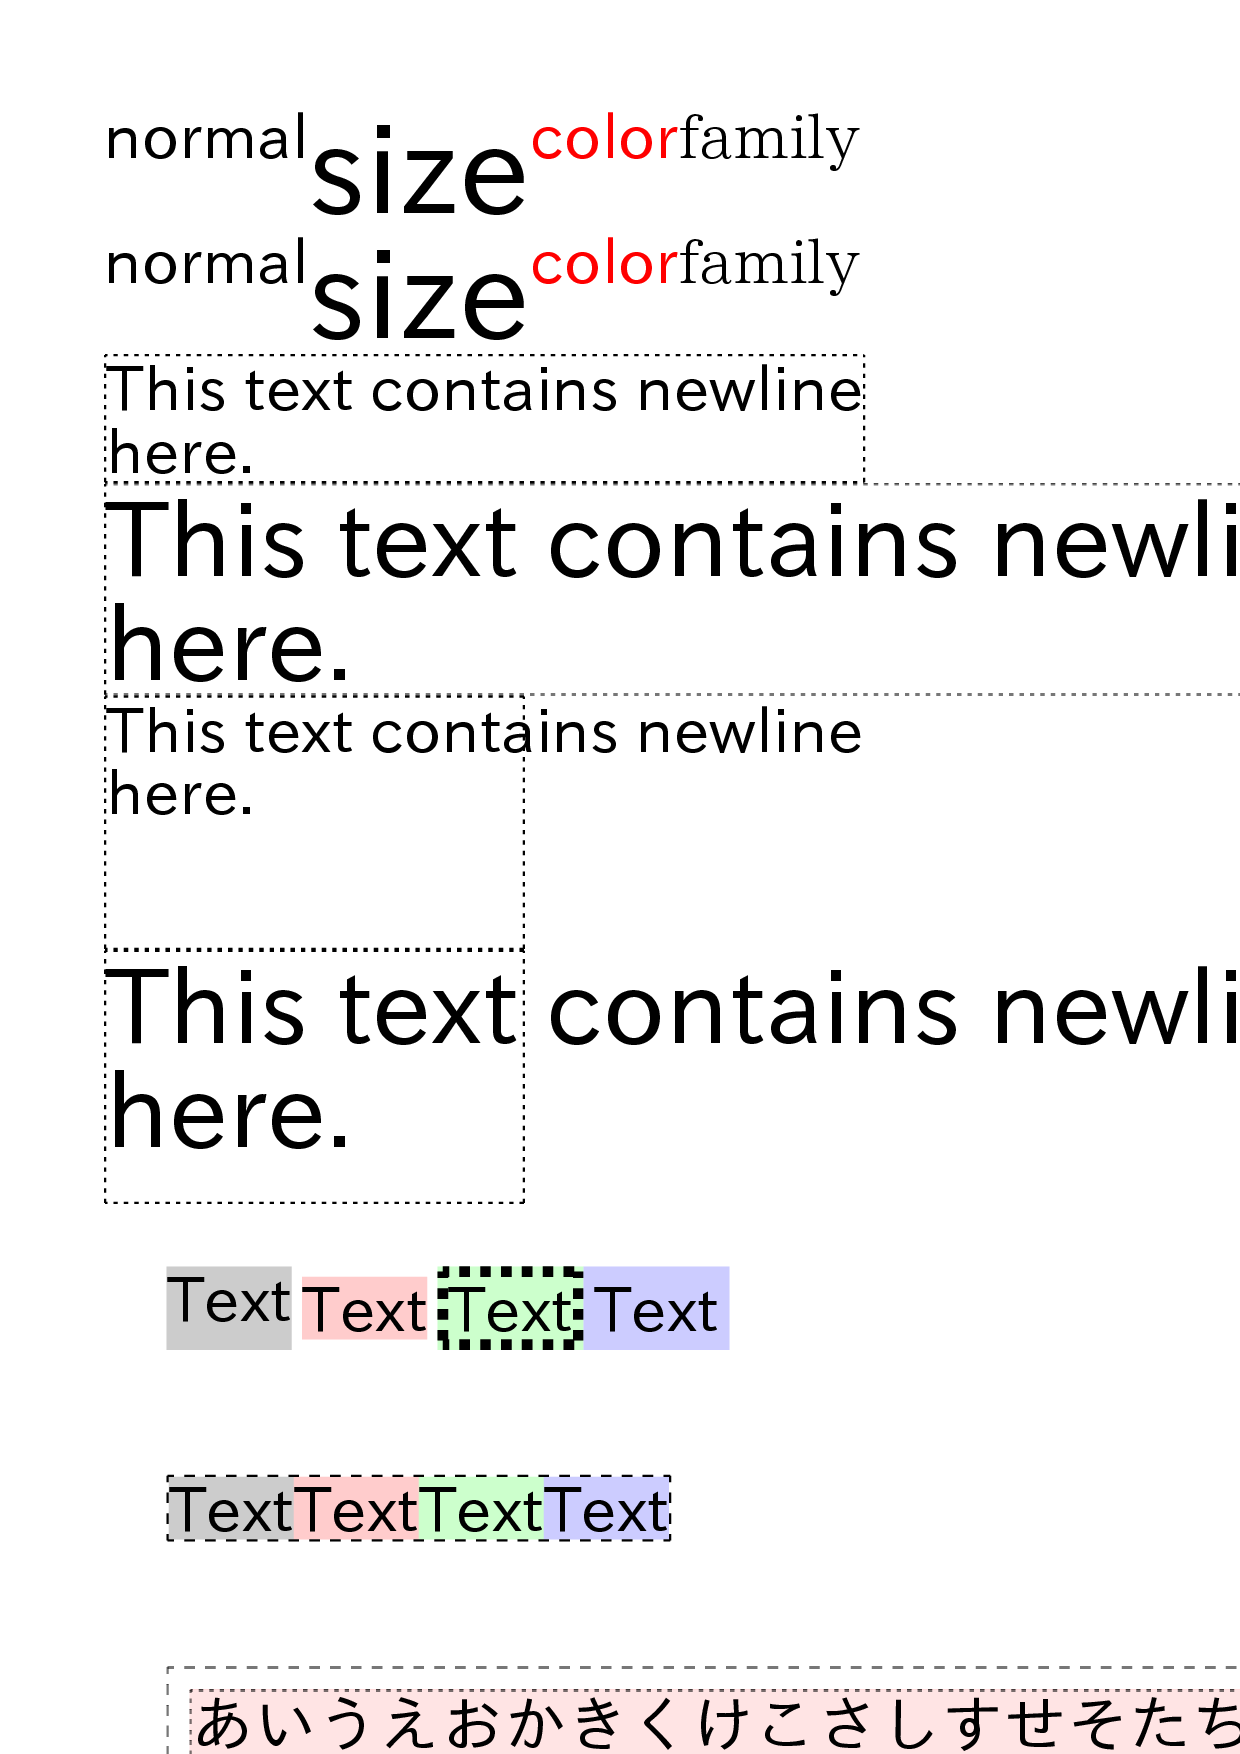
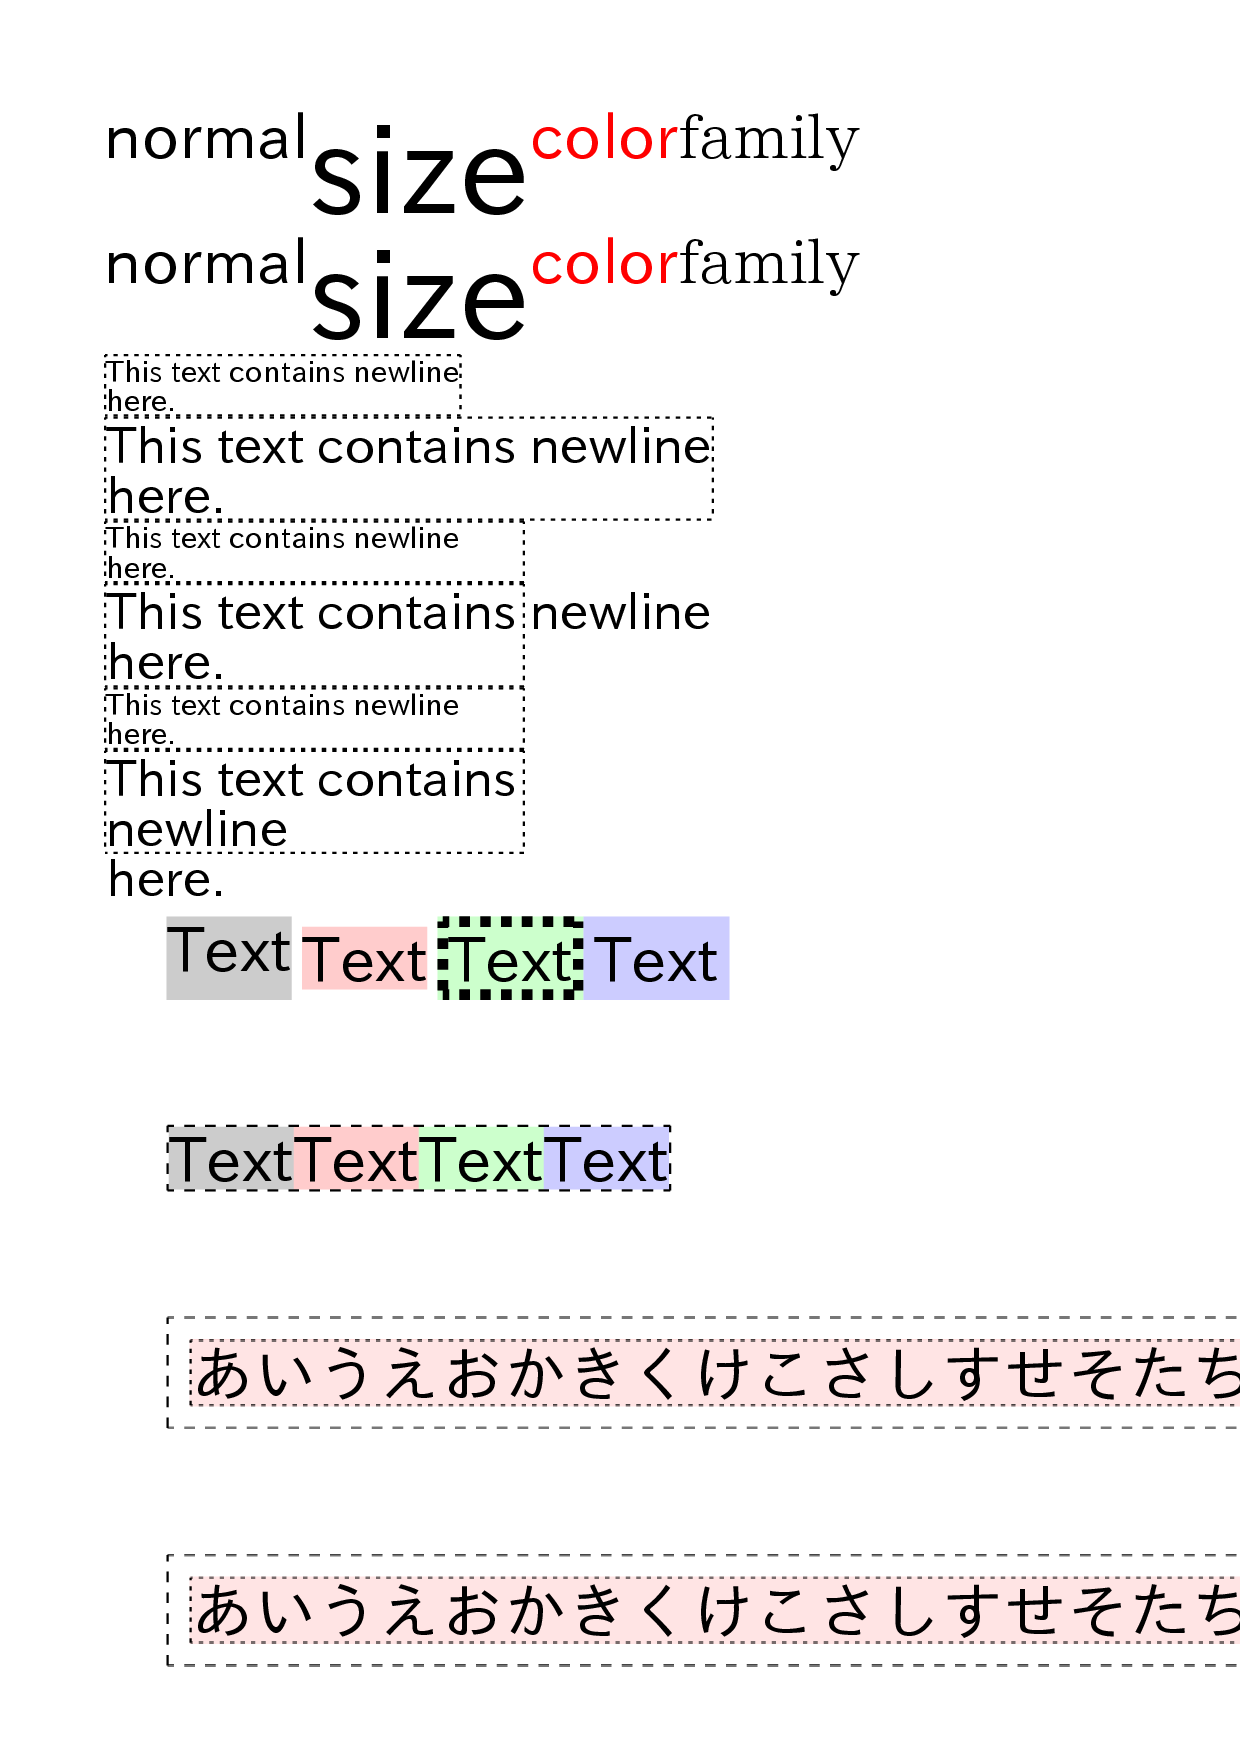
テキスト自身のサイズ指定に応じた折返し

diff --git a/draw_test.go b/draw_test.go
@@ -96,18 +96,27 @@ var cases = map[string]*Box{
 			),
 		),
 		// text with break
+		// サイズ未指定
 		NewRowBox(
-			NewText(NewRun("This text contains newline\nhere.").SetFontSize(30)),
+			NewText(NewRun("This text contains newline\nhere.").SetFontSize(14)),
 		).SetBorder(UniformedBorder(color.Black, BorderStyleDotted, 1)),
 		NewRowBox(
-			NewText(NewRun("This text contains newline\nhere.").SetFontSize(50)),
+			NewText(NewRun("This text contains newline\nhere.").SetFontSize(24)),
 		).SetBorder(UniformedBorder(color.Black, BorderStyleDotted, 1)),
+		// 親がサイズ指定
 		NewRowBox(
-			NewText(NewRun("This text contains newline\nhere.").SetFontSize(30)),
-		).SetBorder(UniformedBorder(color.Black, BorderStyleDotted, 1)).SetSize(200, 120),
+			NewText(NewRun("This text contains newline\nhere.").SetFontSize(14)),
+		).SetBorder(UniformedBorder(color.Black, BorderStyleDotted, 1)).SetWidth(200),
 		NewRowBox(
-			NewText(NewRun("This text contains newline\nhere.").SetFontSize(50)),
-		).SetBorder(UniformedBorder(color.Black, BorderStyleDotted, 1)).SetSize(200, 120),
+			NewText(NewRun("This text contains newline\nhere.").SetFontSize(24)),
+		).SetBorder(UniformedBorder(color.Black, BorderStyleDotted, 1)).SetWidth(200),
+		// 自身がサイズ指定
+		NewRowBox(
+			NewText(NewRun("This text contains newline\nhere.").SetFontSize(14)).SetBorder(UniformedBorder(color.Black, BorderStyleDotted, 1)).SetWidth(200),
+		),
+		NewRowBox(
+			NewText(NewRun("This text contains newline\nhere.").SetFontSize(24)).SetBorder(UniformedBorder(color.Black, BorderStyleDotted, 1)).SetWidth(200),
+		),
 		NewRowBox(
 			NewText(NewRun("Text").SetFontSize(30)).SetBackgroundColor(color.RGBA{R: 0xCC, G: 0xCC, B: 0xCC, A: 0xFF}),
 			NewText(NewRun("Text").SetFontSize(30)).SetBackgroundColor(color.RGBA{R: 0xFF, G: 0xCC, B: 0xCC, A: 0xFF}).SetMargin(5),

diff --git a/item.text.go b/item.text.go
@@ -105,7 +105,7 @@ func (r *noBrRun) splitWithWidth(pdf *gopdf.GoPdf, widthLimit float64) (*noBrRun
 		return nil, nil, err
 	}
 
-	log.Println("🍣", index, index == len(runes), widthLimit, r.Text)
+	log.Printf("🍣 only=%v, idx=%v, wl=%v, t=%q\n", index == len(runes), index, widthLimit, r.Text)
 	if index == len(runes) {
 		return r, nil, nil
 	} else {
@@ -198,10 +198,10 @@ func (t *Text) drawContent(pdf *gopdf.GoPdf, r rect, depth int) (err error) {
 	return nil
 }
 
-func (t *Text) getContentSize(pdf *gopdf.GoPdf, widthLimit float64) (s size, err error) {
+func (t *Text) getContentSize(pdf *gopdf.GoPdf, maxWidth float64) (s size, err error) {
 	defer wrap(&err, "text.getContentSize")
 
-	lines, err := t.splitLines(pdf, widthLimit)
+	lines, err := t.splitLines(pdf, maxWidth)
 	if err != nil {
 		return size{}, err
 	}

diff --git a/item.go b/item.go
@@ -2,6 +2,7 @@ package flexpdf
 
 import (
 	"image/color"
+	"math"
 
 	"github.com/signintech/gopdf"
 )
@@ -133,8 +134,8 @@ func (c *flexItemCommon[T]) draw(pdf *gopdf.GoPdf, marginBox rect, depth int) (e
 	}
 	return nil
 }
-func (c *flexItemCommon[T]) getPreferredSize(pdf *gopdf.GoPdf, width float64) (size, error) {
-	ps, err := c.self.getContentSize(pdf, width)
+func (c *flexItemCommon[T]) getPreferredSize(pdf *gopdf.GoPdf, maxWidth float64) (size, error) {
+	ps, err := c.self.getContentSize(pdf, math.Min(maxWidth, c.Width-c.Margin.w()-c.Padding.w()-c.Border.Width.w()))
 	if err != nil {
 		return size{}, err
 	}

diff --git a/system.go b/system.go
@@ -48,6 +48,13 @@ type TRBL[T any] struct {
 
 type Spacing TRBL[float64]
 
+func (s Spacing) w() float64 {
+	return s.Right + s.Left
+}
+func (s Spacing) h() float64 {
+	return s.Top + s.Bottom
+}
+
 func wrap(errp *error, format string, args ...any) {
 	if *errp != nil {
 		*errp = fmt.Errorf("%s: %w", fmt.Sprintf(format, args...), *errp)
